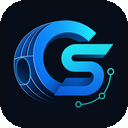
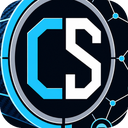
接入运行时状态联动与CSAgent徽标

diff --git a/gui/main_window.py b/gui/main_window.py
@@ -252,6 +252,8 @@ class MainWindow(QMainWindow):
         self.worker: PipelineWorker | None = None
         self.workflow_event_store = WorkflowEventStore()
         self.last_llm_trace_payload: dict | None = None
+        self.runtime_agent_states: dict[str, str] = {}
+        self.runtime_stage_text = ""
 
         self.app_title_label = QLabel(self.locale.text("app.title"))
         self.app_title_label.setObjectName("appTitle")
@@ -1251,7 +1253,40 @@ class MainWindow(QMainWindow):
         failed_agent = self._failed_agent_for_stage(stage)
         if failed_agent:
             states[failed_agent] = "failed"
+        for agent_name, state in self.runtime_agent_states.items():
+            if agent_name in states:
+                states[agent_name] = state
         return states
+
+    def _ui_agent_for_runtime_stage(self, runtime_stage: str, runtime_agent: str = "") -> str:
+        stage = runtime_stage or ""
+        agent = runtime_agent or ""
+        if stage.startswith("parse_task") or agent in {"RequirementAgent", "parse_task"}:
+            return "ORCHESTRATOR"
+        if stage.startswith("generate_candidates") or agent in {"CandidateStrategyAgent", "generate_candidates"}:
+            return "CANDIDATE_GEN"
+        if stage.startswith("screen_candidates") or agent in {"SurrogateAgent", "screen_candidates"}:
+            return "SCREENER"
+        if stage.startswith("evaluate_candidates") or agent in {"FEMExecutionAgent", "SimulationQueue", "evaluate_candidates"}:
+            return "FEM_AGENT"
+        if stage.startswith("persist_knowledge") or agent in {"KnowledgeMemoryAgent", "persist_knowledge"}:
+            return "KNOWLEDGE_AGENT"
+        if stage.startswith("generate_report") or agent in {"ReportAgent", "generate_report"}:
+            return "REPORT_GEN"
+        return "ORCHESTRATOR"
+
+    def _handle_runtime_state_event(self, runtime_type: str, runtime_stage: str, runtime_agent: str) -> None:
+        ui_agent = self._ui_agent_for_runtime_stage(runtime_stage, runtime_agent)
+        if runtime_type in {"node_started", "tool_started", "simulation_job_started", "simulation_job_queued"}:
+            self.runtime_agent_states[ui_agent] = "active"
+            self.runtime_stage_text = runtime_stage or runtime_type
+        elif runtime_type in {"node_completed", "tool_completed", "simulation_job_completed"}:
+            self.runtime_agent_states[ui_agent] = "done"
+            self.runtime_stage_text = runtime_stage or runtime_type
+        elif runtime_type in {"node_failed", "tool_failed", "simulation_job_failed"}:
+            self.runtime_agent_states[ui_agent] = "failed"
+            self.runtime_stage_text = runtime_stage or runtime_type
+        self._update_runtime_panel()
 
     def _failed_agent_for_stage(self, stage: str) -> str | None:
         if stage == "failed":
@@ -1326,14 +1361,17 @@ class MainWindow(QMainWindow):
             + f"Chunks {knowledge_payload.get('rag_chunk_count', 0)} · "
             + f"Relations {knowledge_payload.get('kg_relation_count', 0)}"
         )
+        active_stage = self.runtime_stage_text or self.session.stage
         stage_text = (
-            f"{self.locale.text('agent.active')} · {self.session.stage}"
-            if self.session.task
+            f"{self.locale.text('agent.active')} · {active_stage}"
+            if self.session.task or self.runtime_stage_text
             else self.locale.text("queue.idle")
         )
         self.flow_dag_widget.update_state(state_map, stage_text)
 
     def _run_action(self, action: str, payload: dict, status_text: str) -> None:
+        self.runtime_agent_states = {}
+        self.runtime_stage_text = ""
         self._set_busy(True, status_text)
         self.worker_thread = QThread(self)
         worker_payload = dict(payload)
@@ -1719,6 +1757,8 @@ class MainWindow(QMainWindow):
     def _reset_session(self) -> None:
         self.session = PipelineSession()
         self.last_llm_trace_payload = None
+        self.runtime_agent_states = {}
+        self.runtime_stage_text = ""
         self.chat_widget.clear()
         self.log_widget.clear()
         self.task_browser.setHtml(self._initial_task_html())
@@ -1797,10 +1837,17 @@ class MainWindow(QMainWindow):
             runtime_agent = str(payload.get("runtime_agent") or sender_label)
             runtime_type = str(payload.get("runtime_event_type") or "runtime")
             runtime_stage = str(payload.get("runtime_stage") or "")
+            record = payload.get("record") if isinstance(payload.get("record"), dict) else {}
+            run_id = str(record.get("run_id") or self.session.workflow_run_id or "")
             suffix = f" @ {runtime_stage}" if runtime_stage else ""
+            if run_id and not self.session.workflow_run_id:
+                self.session.workflow_run_id = run_id
+            self._handle_runtime_state_event(runtime_type, runtime_stage, runtime_agent)
             self.log_widget.append_log(runtime_agent, f"[{runtime_type}{suffix}] {message}")
             self.monitor_log_widget.append_log(runtime_agent, f"[{runtime_type}{suffix}] {message}")
             self._refresh_run_selector()
+            if run_id:
+                self.workflow_widget.refresh(run_id, runtime_stage, self.session.pending_confirmation)
             return
 
         self.chat_widget.add_message(sender_label, message)

diff --git a/tests/test_main_window.py b/tests/test_main_window.py
@@ -350,6 +350,15 @@ def test_main_window_routes_runtime_events_to_logs_without_chat_noise(monkeypatc
         assert "node_started @ parse_task" in window.log_widget.toPlainText()
         assert "节点开始：parse_task" not in window.chat_widget.toPlainText()
         assert window.chat_widget.toPlainText() == before_chat
+        assert window.runtime_agent_states["ORCHESTRATOR"] == "active"
+        assert window.flow_dag_widget.agent_states["ORCHESTRATOR"] == "active"
+        assert window.flow_dag_widget.stage_text == "运行中 · parse_task"
+
+        event["payload"]["runtime_event_type"] = "node_completed"
+        window._handle_message("FLOW", "节点完成：parse_task", event)
+
+        assert window.runtime_agent_states["ORCHESTRATOR"] == "done"
+        assert window.flow_dag_widget.agent_states["ORCHESTRATOR"] == "done"
     finally:
         window.close()
         app.processEvents()

diff --git a/docs/项目状态.md b/docs/项目状态.md
@@ -28,7 +28,7 @@
 - `config/app_config.yaml` 中 `project_knowledge` 配置当前指向 `knowledge/runtime/rag/rag_chunks.jsonl`、`knowledge/chroma_db` 的 `csdm_cph_project_knowledge` collection、`knowledge/runtime/kg` 和 `knowledge/runtime/manifest.json`。
 - RAG 分块参数为 `chunk_token_size=512`、`chunk_overlap_tokens=64`、`min_chunk_tokens=80`，完全相同 chunk 按 `content_hash` 去重。
 - 材料库、参数范围和代理公式已写入 `config/`。
-- `workflow/` 已提供 LangGraph 状态图运行时、智能体职责契约、SQLite 事件存储、工具注册和快照恢复接口；现有 PyQt6 主对话流程通过该运行时推进，GUI“监控”页可刷新最近运行记录并恢复运行状态，项目页保留人工筛选、有限元校核和重置入口。恢复运行状态只读取本地运行库，不重新调用 LLM 或 Abaqus。LangGraph 节点启动、节点完成、工具调用、人工确认和仿真队列事件会实时写入工作台运行日志和监控日志；对话区只展示任务摘要、确认请求、助手解释和人工输入。
+- `workflow/` 已提供 LangGraph 状态图运行时、智能体职责契约、SQLite 事件存储、工具注册和快照恢复接口；现有 PyQt6 主对话流程通过该运行时推进，GUI“监控”页可刷新最近运行记录并恢复运行状态，项目页保留人工筛选、有限元校核和重置入口。恢复运行状态只读取本地运行库，不重新调用 LLM 或 Abaqus。LangGraph 节点启动、节点完成、工具调用、人工确认和仿真队列事件会实时写入工作台运行日志和监控日志，并同步刷新左侧智能体状态卡片和中央 DAG 状态；对话区只展示任务摘要、确认请求、助手解释和人工输入。
 - 有限元校核已接入 `workflow/simulation_queue.py` 作业队列，记录候选入队、运行、成功、失败、正式编号、结果摘要和错误信息。
 - 知识回流已作为状态图节点 `persist_knowledge` 独立运行，写入 `knowledge_updates` 快照字段，并通过 `KnowledgeMemoryAgent` 工具事件审计。
 - PyQt6 核心工作台包含“智能体流程”面板，读取工作流运行事件、状态快照和有限元队列，展示运行摘要、LangGraph DAG、状态图、节点产物、智能体职责契约、诊断信息、LLM 后端配置状态、LLM 后端实时检测结果、LLM 调用轨迹、有限元队列和工具调用审计，并可导出单次运行审计报告。
